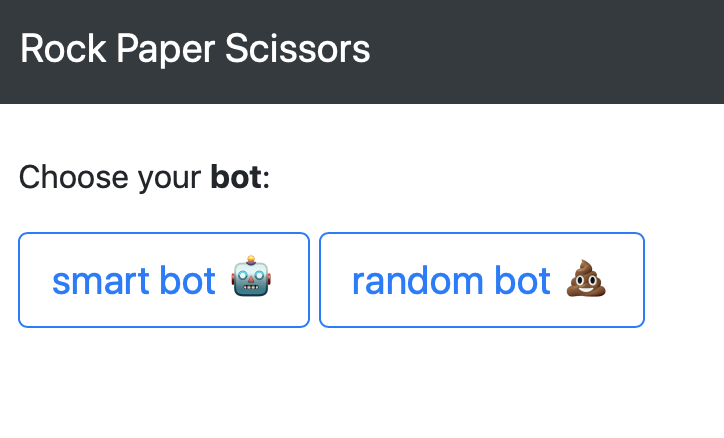
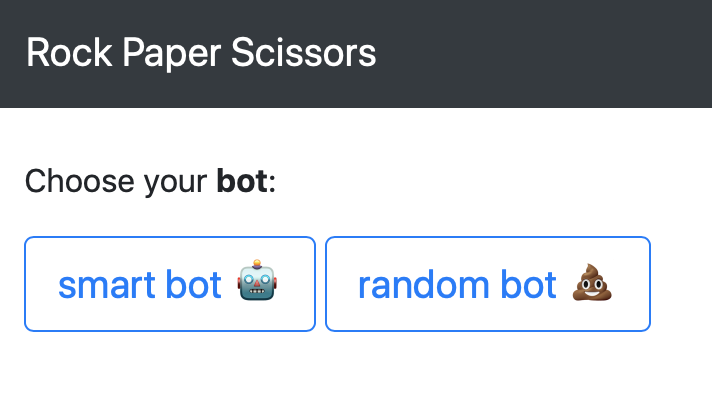
demo

Changed region(s): [[0.0, 0.3618, 0.927, 0.8442], [0.0, 0.2111, 1.0, 0.2714], [0.0309, 0.0603, 0.5253, 0.1809]]

diff --git a/README.md b/README.md
@@ -1,7 +1,7 @@
 # rock_paper_scissors_bot
 A machine learning trained RPS bot 
 
-![png](demo_1.png)
+<img src="demo_1.png" alt="dt" width="300"/>
 
-![png](demo_2.png)
+<img src="demo_2.png" alt="dt" width="700"/>
 
